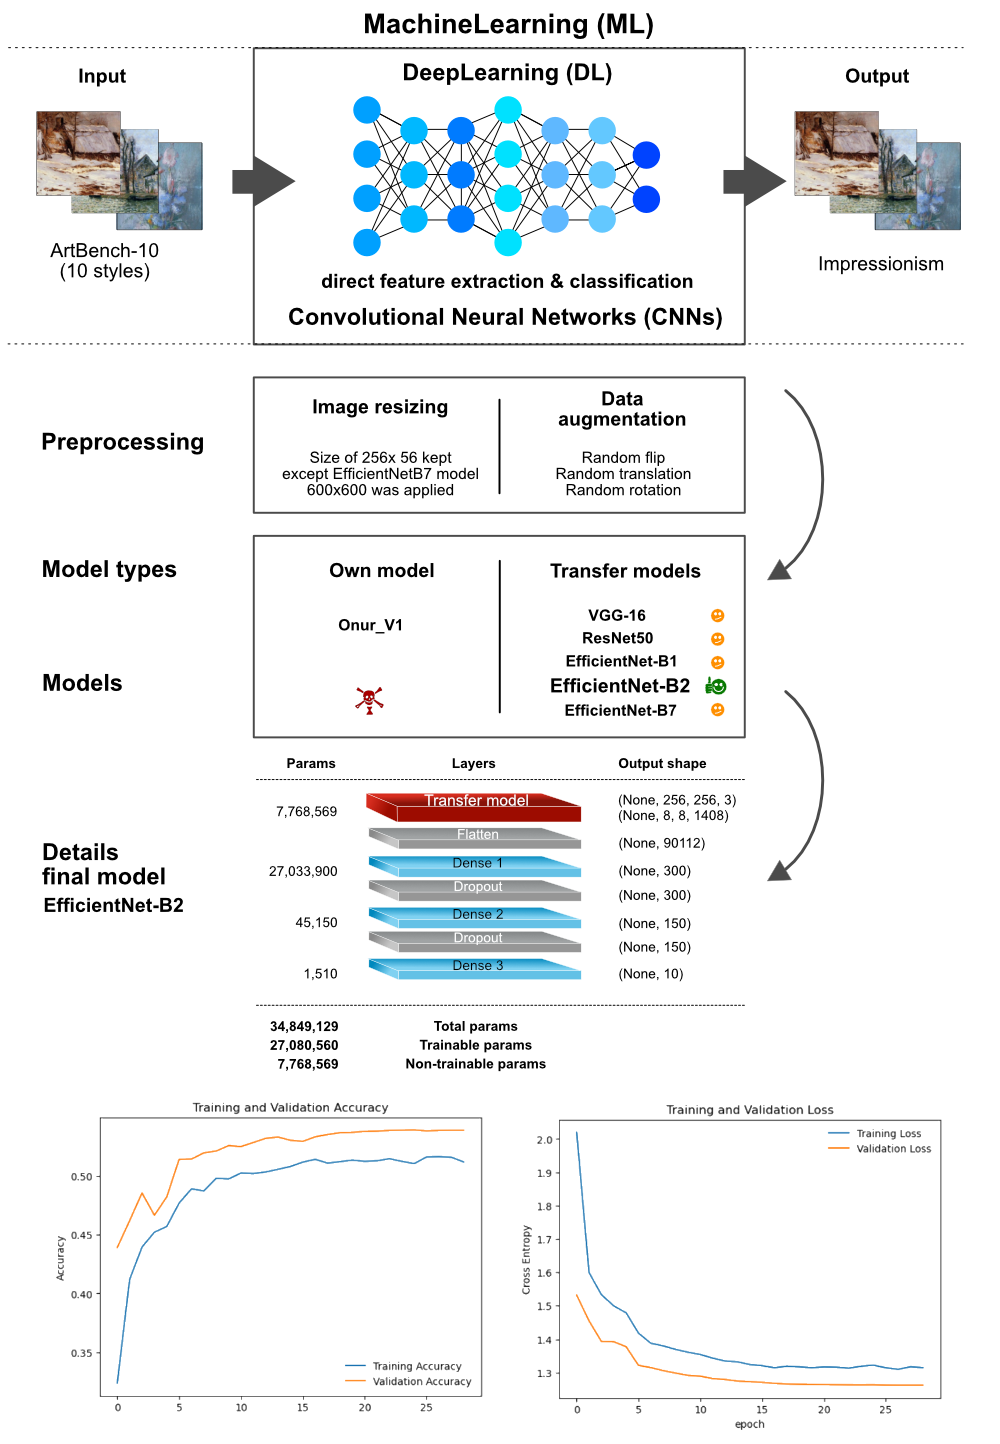
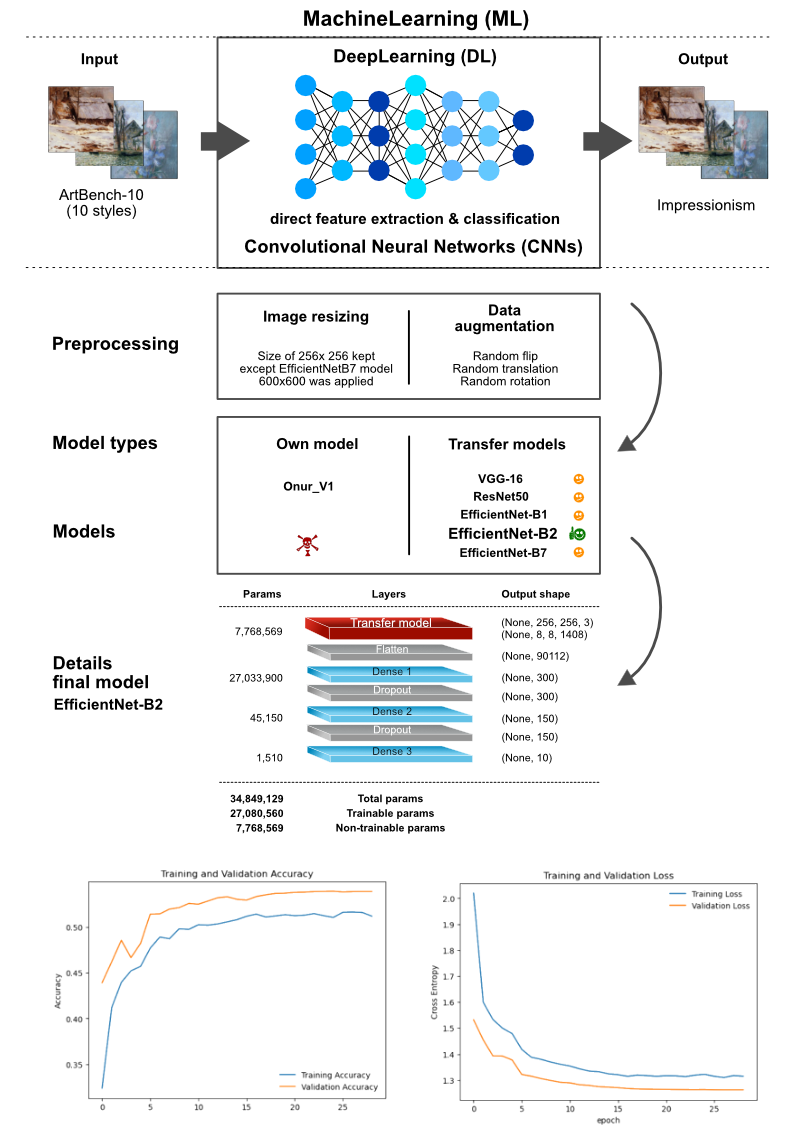
this time new push modified pages finalized pictures

diff --git a/pages/3_behind_the_scenes.py b/pages/3_behind_the_scenes.py
@@ -8,28 +8,6 @@ st.set_page_config(layout='wide',
                    page_icon='🎨',
                    initial_sidebar_state="auto")
 
-# Textblock1
-st.markdown('''
-                ## Our dataset - art spotlight on
-                **ArtBench-10** is a dataset of **60,000 image** from **10 art styles** that are extracted from the Wikiart database.
-                These 10 styles are selected based on the balanced number of pictures available (5,000 for training and 1,000 for testing) which is an advantage over the highly imbalanced Wikiart data.
-                In general, it is actually **difficult to create large, balanced datasets** because many styles are not well represented.
-                We thus chose ArtBench-10 to train our neural network model to avoid model mistraining because of long-tail class distribution.
-                The ten art styles with example paintings are shown below.
-                If you like to know more about the WikiArt and the ArtBench-10 datasets, please follow these links that provide more detailed information:
-                ("- [https://www.kaggle.com/datasets/steubk/wikiart](https://www.kaggle.com/datasets/steubk/wikiart)") and
-                ("- [https://www.kaggle.com/datasets/alexanderliao/artbench10](https://www.kaggle.com/datasets/alexanderliao/artbench10)")
-                ''')
-
-st.markdown(' ')
-st.markdown(' ')
-
-# Textblock1 - Picture1:
-st.image('./images/artstyles.png', width=1000, use_column_width=False)
-
-# Markdown textblock separator - return and thin line
-st.markdown('---')
-
 
 # Textblock2
 st.markdown('''
@@ -37,9 +15,11 @@ st.markdown('''
                 To solve the challenging task of predicting art styles, we used the **deep learning (DL)** method in which **convolutional neural networks (CNNs)** are built to analyze large datasets.
                 First, we tested our **own neural models**, setting up new neural layers from scratch.
                 However, computationally and accuracy-wise, they did not perform well.
+
                 As a consequence, we switched our strategy to **transfer learning**, which means that we applied neural models that were already tested on general image identification problems.
                 To the core layers of these models, we then added our own final dense layers adapted to our dataset.
                 Overall, we tested different models: VGG-16, ResNet50, EfficientNet-B1, EfficientNet-B2, and EfficientNet-B7.
+                
                 In general, it seems that EfficientNet models show high performance related to image identification, as shown in this link: [https://pypi.org/project/efficientnet/](https://pypi.org/project/efficientnet/).
                 **For our dataset the best performing model was EfficientNetB2**, which we finally implemented in our application.
                 For more details, please see the figure below.
@@ -49,4 +29,4 @@ st.markdown(' ')
 st.markdown(' ')
 
 # Textblock2 - Picture2:
-st.image('./images/modelworkflow.png', width=1000, use_column_width=False)
+st.image('./images/modelworkflow.png', width=800, use_column_width=False)

diff --git a/pages/1_about_project.py b/pages/1_about_project.py
@@ -4,3 +4,25 @@ st.set_page_config(layout='wide',
                    page_title='Art Guessing / About project',
                    page_icon='🎨',
                    initial_sidebar_state="auto")
+
+# Textblock1
+st.markdown('''
+                ## I think I know this art style...  or do I?
+                Imagine the situation that you are in a location with other people, for example a party or reception, where several paintings of different artists are exhibited. 
+                You sure know the feeling "Wait, I know that art style or maybe the artist but not the style. Or do I? Hmmm... I am not really sure".
+                
+                Other people seem to be very sure although some of their guesses you know already are actually quite wrong.
+                Or, even worth, they fight over who is right or wrong, families are devided, couples split...
+                
+                Well, our application ARTEND comes in handy now.
+                You can load pictures into it by either uploading them from the web or by photographing them with your mobile phone and ARTEND predicts the style for you.
+                Isn't that marvelous? Now you can be more confident on your hunch. Of course you can also guess yourself the stlye before ARTEND predicts the style so you can see if you were right. 
+                Or, why don't you use it as a party game and be the good samaritian who keeps families and couples together? 
+                Socialising with art, but doing it smart. What a great time.
+
+
+                We have already many ideas how to improve and modify ARTEND and its neural network model that does all the work in the background in the future, please see for perspectives on the "about us" page. 
+                ''')
+
+# Textblock1 - Picture1:
+st.image('./images/cartoon.png', width=800, use_column_width=False)

diff --git a/pages/2_dataset.py b/pages/2_dataset.py
@@ -4,3 +4,25 @@ st.set_page_config(layout='wide',
                    page_title='Art Guessing / Dataset',
                    page_icon='🎨',
                    initial_sidebar_state="auto")
+
+# Textblock1
+st.markdown('''
+                ## Our dataset - art spotlight on
+                **ArtBench-10** is a dataset of **60,000 image** from **10 art styles** that are extracted from the Wikiart database.
+                These 10 styles are selected based on the balanced number of pictures available (5,000 for training and 1,000 for testing) which is an advantage over the highly imbalanced Wikiart data.
+                
+                In general, it is actually **difficult to create large, balanced datasets** because many styles are not well represented.
+                We thus chose ArtBench-10 to train our neural network model to avoid model mistraining because of long-tail class distribution.
+                The ten art styles with example paintings are shown below.
+                
+                If you like to know more about the WikiArt and the ArtBench-10 datasets, please follow these links that provide more detailed information:
+                ("- [https://www.kaggle.com/datasets/steubk/wikiart](https://www.kaggle.com/datasets/steubk/wikiart)") and
+                ("- [https://www.kaggle.com/datasets/alexanderliao/artbench10](https://www.kaggle.com/datasets/alexanderliao/artbench10)")
+                ''')
+
+st.markdown(' ')
+st.markdown(' ')
+
+# Textblock1 - Picture1:
+st.image('./images/artstyles.png', width=1000, use_column_width=False)
+

diff --git a/pages/4_about_us.py b/pages/4_about_us.py
@@ -73,3 +73,15 @@ st.markdown('''
             * https://github.com/lailadib/art_guessing
             * https://github.com/Leonid-T32/art_guessing_frontend
             ''')
+
+# Markdown textblock separator - return and thin line
+st.markdown('---')
+
+st.markdown('''
+            ## Perspectives and future plans
+            A first technical perspective we see is to improve the prediction accuracy by **training a more specific convolutional neural network model** that runs in the background doing here all the work. 
+            Art styles are actually harder to predict than you probably imagine, so longer training and new training on the base of transfer models could probably increase the precision.
+            
+            Other ideas we have is to **predict** with the art style **also the artist**. That would be a nice additional feature after the model has been improved.
+            We could also implement then finally a **function showing similar paintings and/or artists**. 
+            ''')
